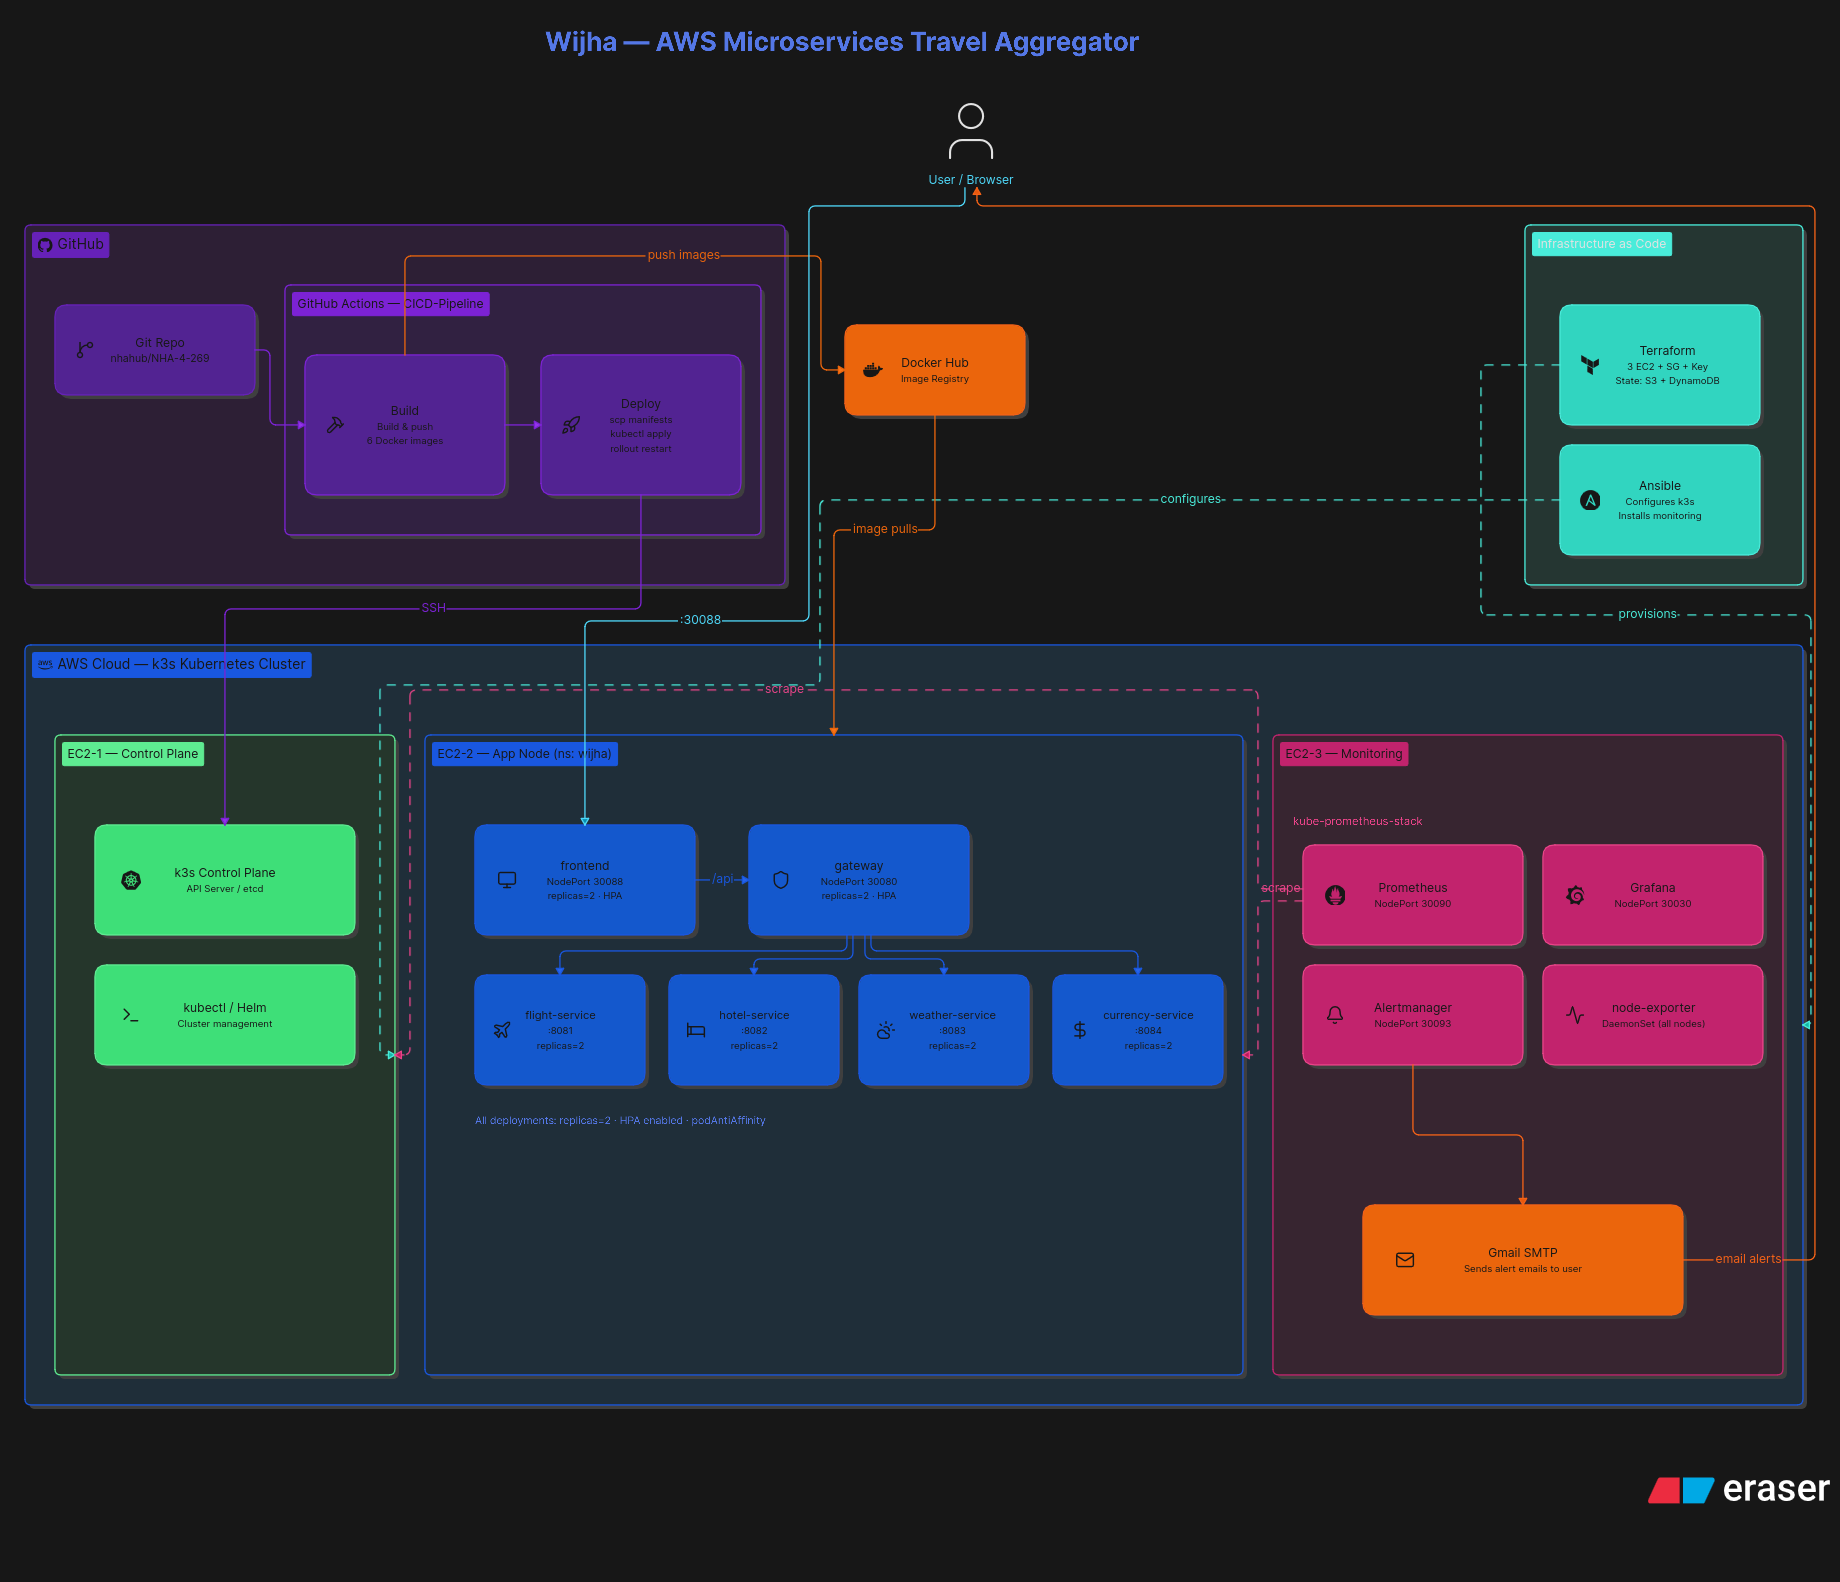
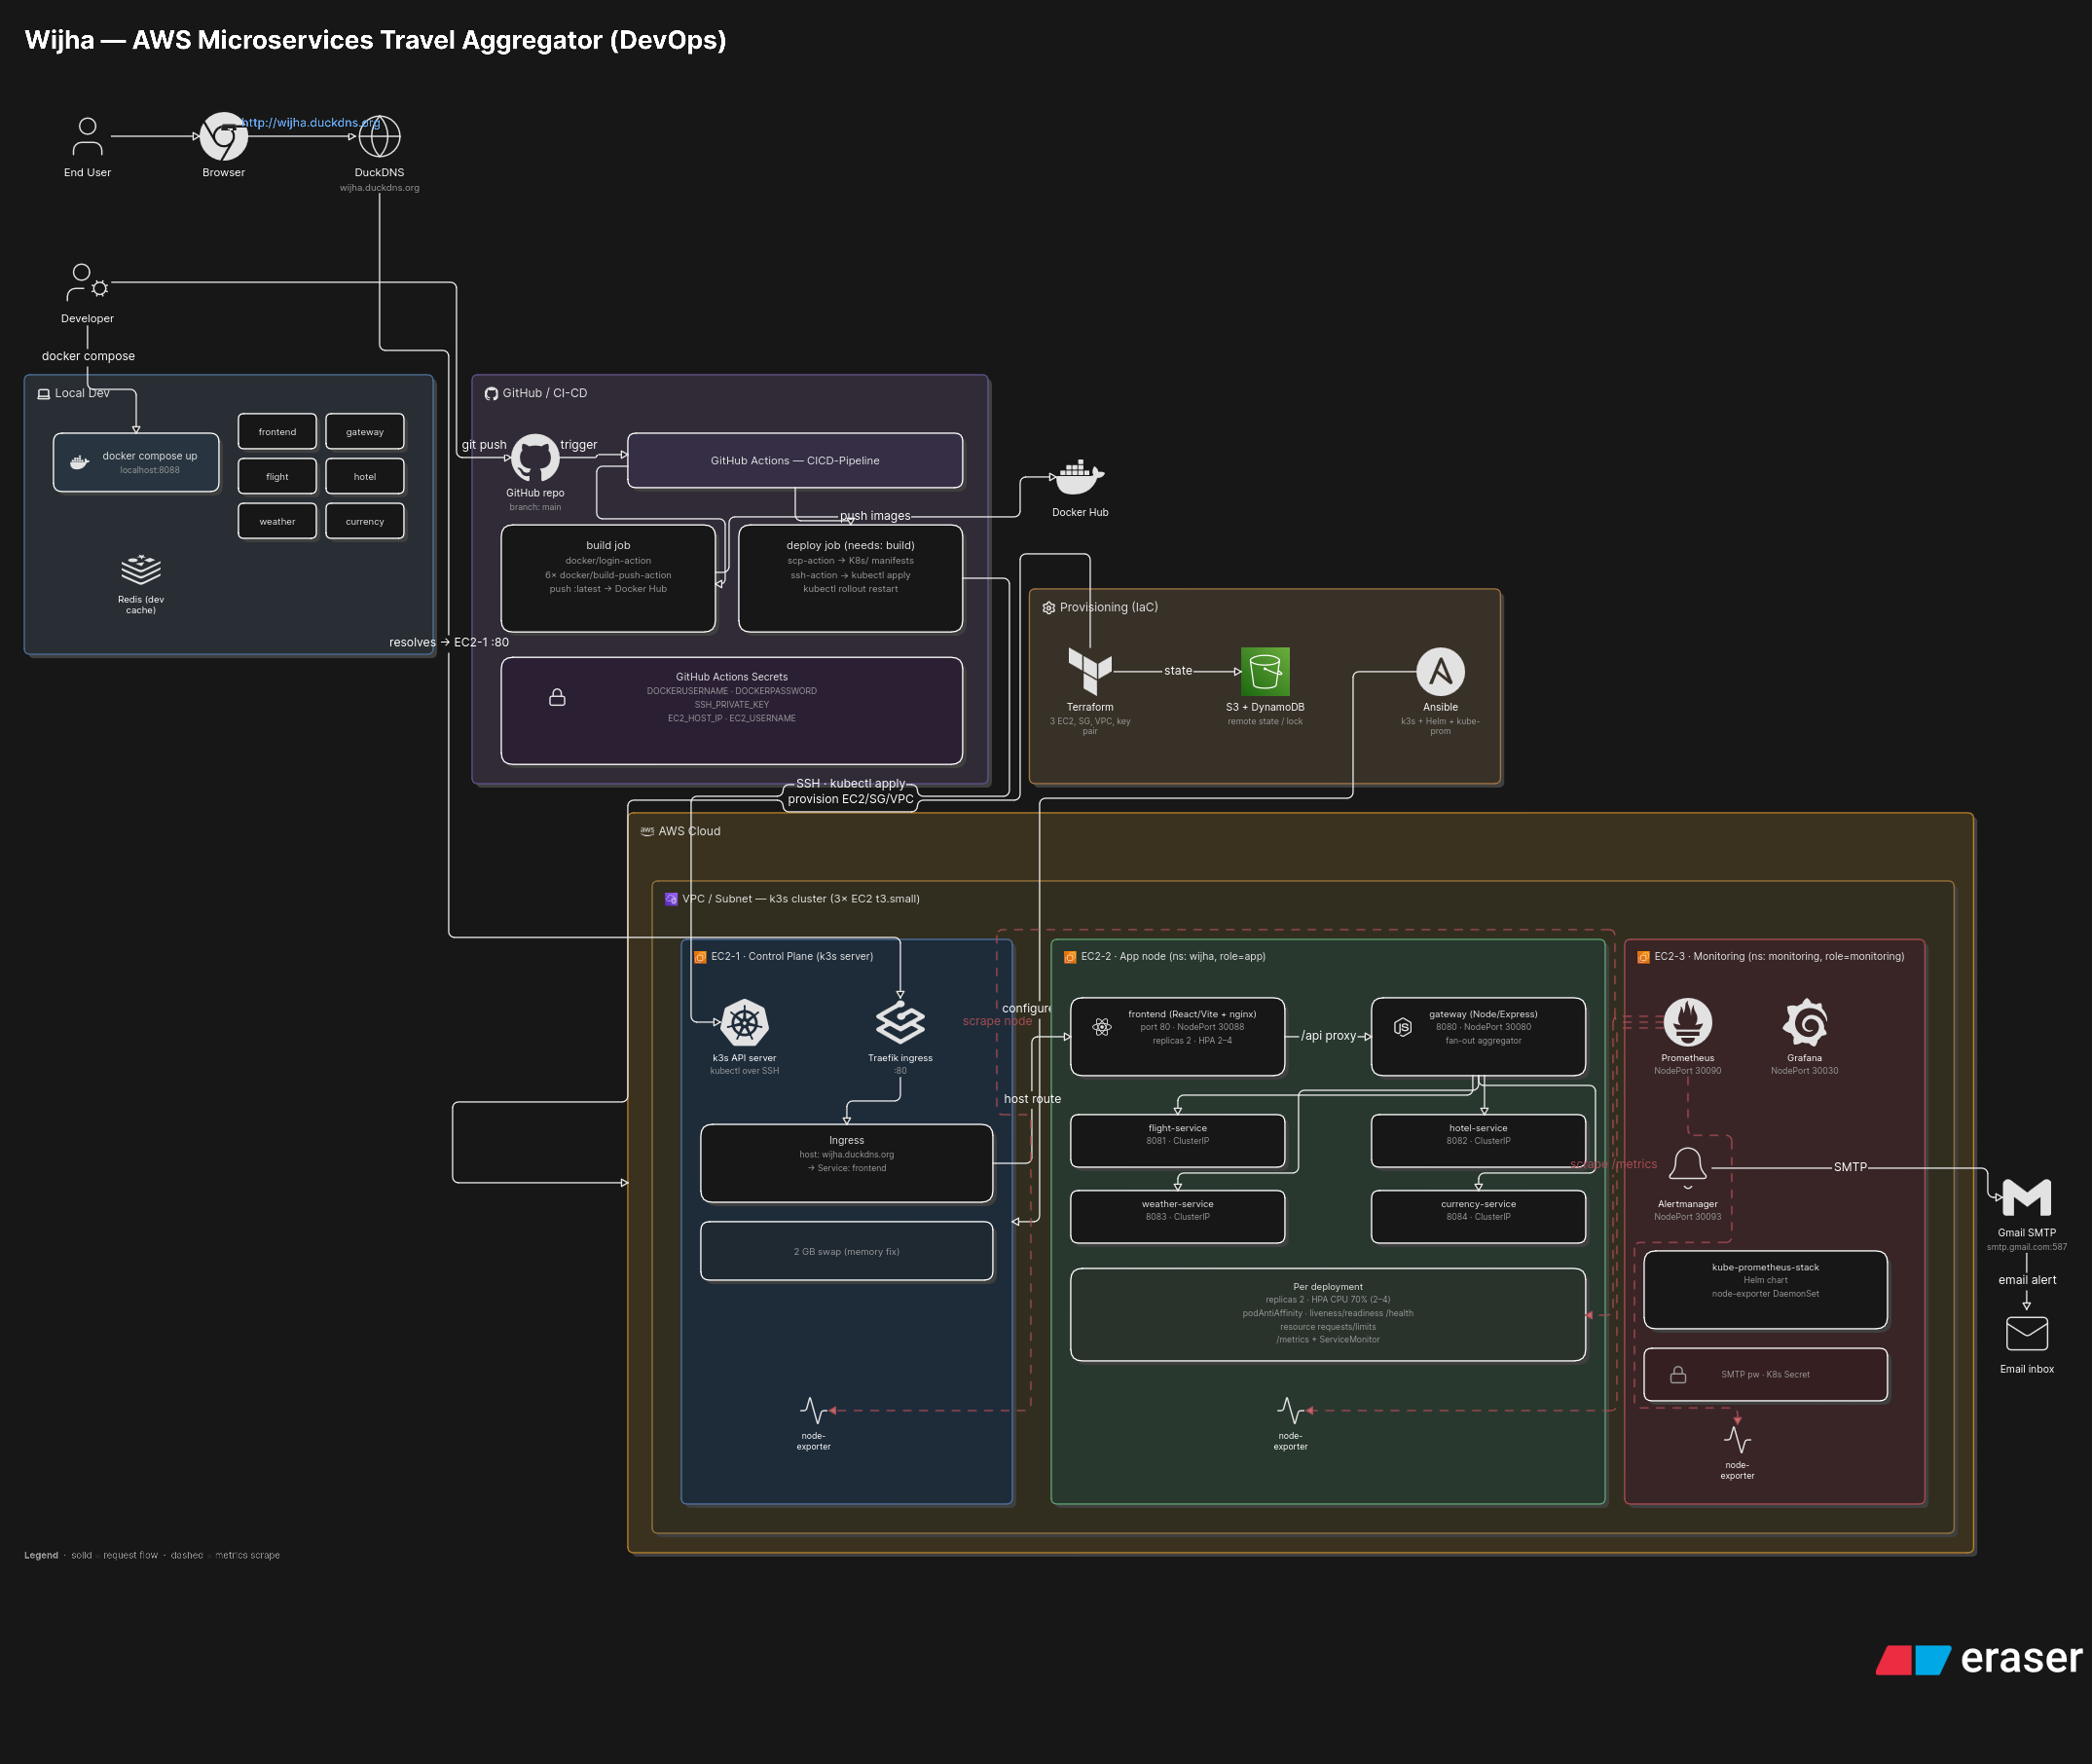
Add Traefik ingress + clean URL; open SG 80/443; ignore AMI drift; update README + arch diagram

diff --git a/README.md b/README.md
@@ -27,13 +27,16 @@ email alerting.
 
 ## Live access
 
-The cluster uses NodePort services. A NodePort answers on **every** node's public
-IP, so the control-plane server IP works for everything even when other node IPs
-change on stop/start. Public IPs change when instances are restarted.
+The app is served on a clean URL via a **Traefik Ingress on port 80** with a free
+**DuckDNS** subdomain — no NodePort in the address. The other UIs still use
+NodePort. A NodePort answers on **every** node's public IP, so the control-plane
+server IP works for everything even when other node IPs change on stop/start.
+Public IPs change when instances are restarted (repoint DuckDNS after a restart).
 
 | What | URL |
 |------|-----|
-| Application (frontend) | http://3.238.250.18:30088 |
+| **Application (frontend)** | **http://wijha.duckdns.org** |
+| Application (NodePort, direct) | http://3.238.250.18:30088 |
 | Gateway health | http://3.238.250.18:30080/health |
 | Gateway API (example) | http://3.238.250.18:30080/api/search?from=CAI&to=DXB&toCity=Dubai&date=2026-07-01&checkout=2026-07-05&currency=EGP |
 | Prometheus | http://3.238.250.18:30090 |
@@ -80,7 +83,8 @@ cd services/flight-service && npm install && npm start
   state in S3 with DynamoDB locking.
 - **Ansible** (`infra/ansible/`): k3s server + agents, kube-prometheus-stack.
 - **Kubernetes** (`Kubernetes/`): per-service Deployment + Service + HPA,
-  podAntiAffinity, probes, ServiceMonitors for app metrics.
+  podAntiAffinity, probes, ServiceMonitors for app metrics; `ingress.yaml`
+  (Traefik) exposes the frontend on port 80 at the DuckDNS host.
 - **CI/CD** (`.github/workflows/CICD-Pipeline.yml`): build/push 6 images, deploy
   over SSH.
 - **Monitoring**: Prometheus scrapes `/metrics` (5 ServiceMonitors); Grafana app